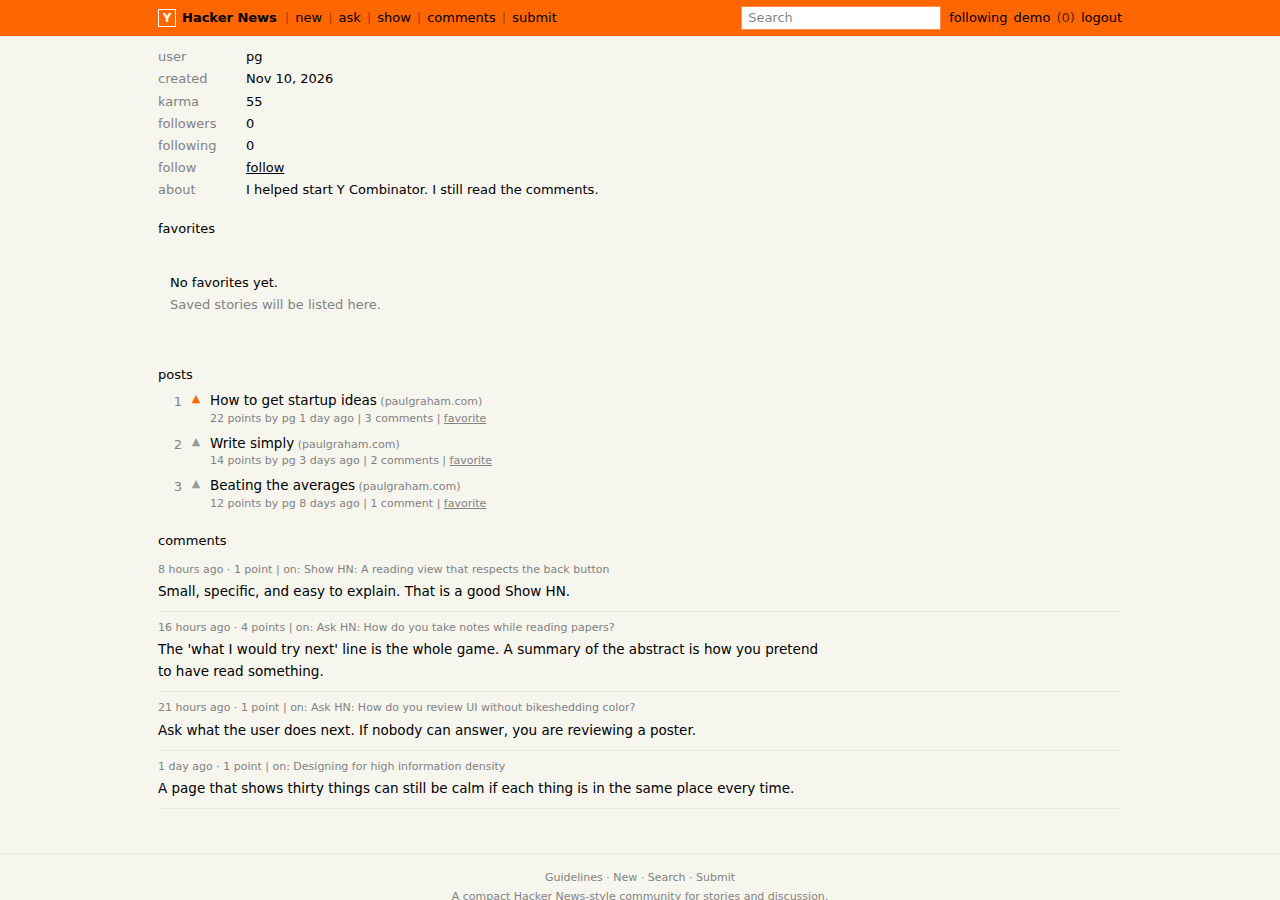
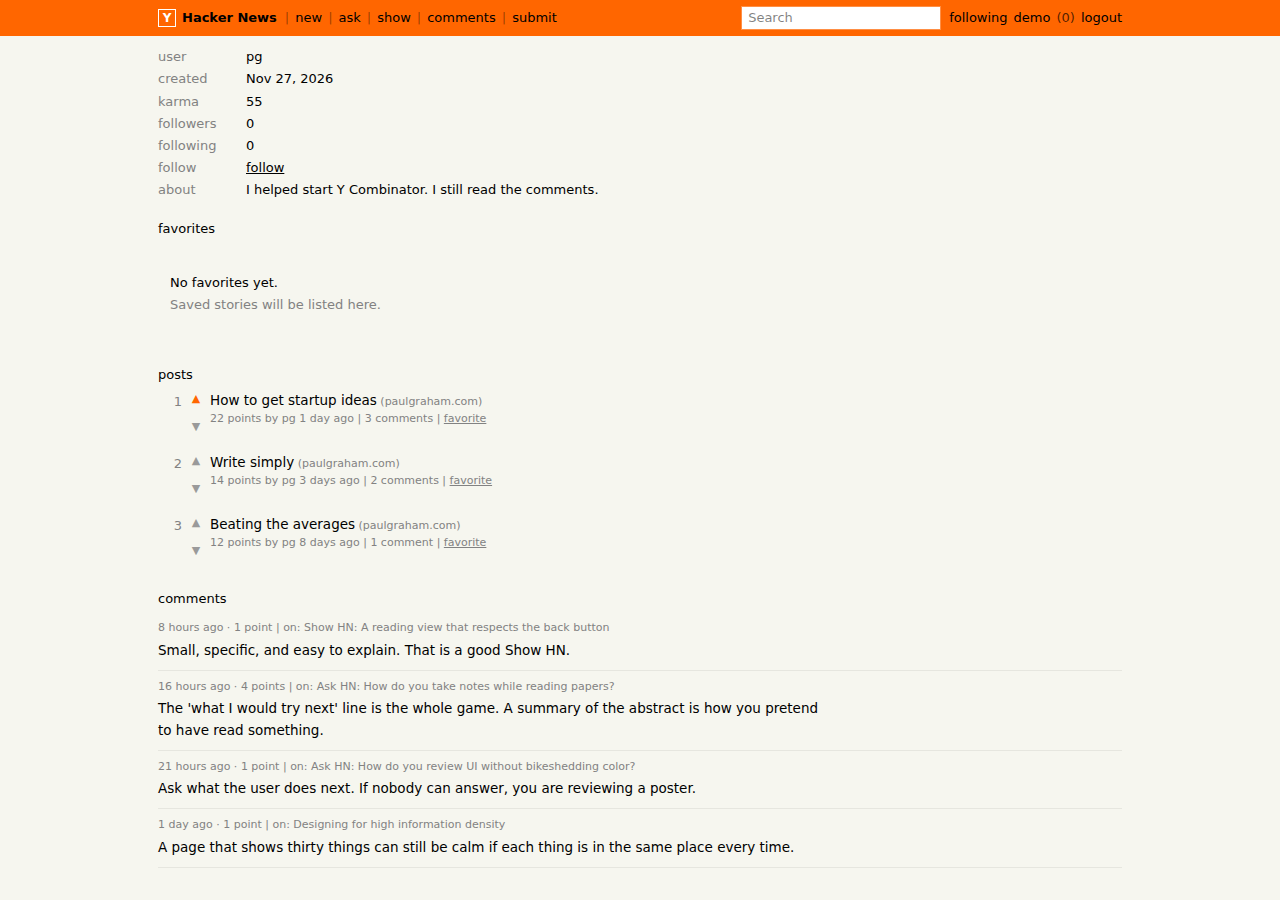
Round 10 Phase 4: stop deep-comment drift and cover account flows. LEFTOVER_HARDENING_V3.md

Changed region(s): [[0.125, 0.4667, 0.6562, 1.0]]

diff --git a/tests/e2e/account-recovery.spec.ts b/tests/e2e/account-recovery.spec.ts
@@ -1,0 +1,102 @@
+import { readFileSync, writeFileSync } from "node:fs";
+import { expect, test } from "@playwright/test";
+
+const mailLog = "/tmp/hn-e2e-mail.log";
+
+function clearMailLog() {
+  writeFileSync(mailLog, "");
+}
+
+async function latestToken(subject: string): Promise<string> {
+  let token = "";
+  await expect
+    .poll(() => {
+      try {
+        const blocks = readFileSync(mailLog, "utf8").split("\n---\n");
+        const block = [...blocks].reverse().find((entry) => entry.includes(subject));
+        const match = block?.match(/token=([^\s]+)/);
+        token = match?.[1] ? decodeURIComponent(match[1]) : "";
+        return token.length;
+      } catch {
+        return 0;
+      }
+    })
+    .toBeGreaterThan(20);
+  return token;
+}
+
+test("shows an invalid password-reset or email-change link", async ({ page }) => {
+  await page.goto("/reset-password");
+  await expect(page.getByText("That reset link is not valid.")).toBeVisible();
+  await page.goto("/reset-password?token=short");
+  await expect(page.getByText("That reset link is not valid.")).toBeVisible();
+  await page.goto("/change-email");
+  await expect(page.getByText("That confirmation link is not valid.")).toBeVisible();
+  await page.goto("/forgot-password");
+  await expect(page.getByRole("button", { name: "send reset link" })).toBeVisible();
+});
+
+test("resets a password from the emailed link and rejects the old one", async ({ page }) => {
+  const username = `p${Date.now().toString(36)}`;
+  const email = `${username}@example.com`;
+  await page.goto("/register");
+  await page.getByLabel("Username").fill(username);
+  await page.getByLabel("Email").fill(email);
+  await page.getByLabel("Password").fill("supersecret");
+  await page.getByRole("button", { name: "create account" }).click();
+  await expect(page.getByTestId("current-user")).toHaveText(username);
+  await page.getByRole("button", { name: "logout" }).click();
+  await expect(page.getByRole("link", { name: "login" })).toBeVisible();
+
+  clearMailLog();
+  await page.goto("/forgot-password");
+  await page.getByLabel("Email").fill(email);
+  await page.getByRole("button", { name: "send reset link" }).click();
+  await expect(page.getByText("If that account exists, a reset link was sent.")).toBeVisible();
+  const token = await latestToken("Reset your password");
+
+  await page.goto(`/reset-password?token=${encodeURIComponent(token)}`);
+  await page.getByLabel("New password").fill("reset-secret-1");
+  await page.getByRole("button", { name: "update password" }).click();
+  await expect(page.getByText("Password updated. Log in with the new one.")).toBeVisible();
+
+  await page.getByLabel("Username").fill(username);
+  await page.getByLabel("Password").fill("reset-secret-1");
+  await page.getByRole("button", { name: "login" }).click();
+  await expect(page.getByTestId("current-user")).toHaveText(username);
+  await page.getByRole("button", { name: "logout" }).click();
+  await expect(page.getByRole("link", { name: "login" })).toBeVisible();
+
+  await page.goto("/login");
+  await page.getByLabel("Username").fill(username);
+  await page.getByLabel("Password").fill("supersecret");
+  await page.getByRole("button", { name: "login" }).click();
+  await expect(page.getByText("Invalid username or password.")).toBeVisible();
+  await expect(page.getByTestId("current-user")).toHaveCount(0);
+});
+
+test("keeps the old email until the change link is confirmed", async ({ page }) => {
+  const username = `e${Date.now().toString(36)}`;
+  const email = `${username}@example.com`;
+  const nextEmail = `${username}-next@example.com`;
+  await page.goto("/register");
+  await page.getByLabel("Username").fill(username);
+  await page.getByLabel("Email").fill(email);
+  await page.getByLabel("Password").fill("supersecret");
+  await page.getByRole("button", { name: "create account" }).click();
+  await expect(page.getByTestId("current-user")).toHaveText(username);
+
+  clearMailLog();
+  await page.goto(`/user/${username}`);
+  await expect(page.getByTestId("account-email")).toHaveText(email);
+  await page.getByLabel("New email").fill(nextEmail);
+  await page.getByRole("button", { name: "send confirmation" }).click();
+  await expect(page.getByText("Check the new inbox for a confirmation link.")).toBeVisible();
+  await expect(page.getByTestId("account-email")).toHaveText(email);
+
+  const token = await latestToken("Confirm your new email");
+  await page.goto(`/change-email?token=${encodeURIComponent(token)}`);
+  await page.getByRole("button", { name: "confirm new email" }).click();
+  await expect(page.getByTestId("account-email")).toHaveText(nextEmail);
+  await expect(page.getByTestId("current-user")).toHaveText(username);
+});

diff --git a/components/comment-thread.tsx b/components/comment-thread.tsx
@@ -4,7 +4,7 @@ import { useEffect, useState } from "react";
 import { setCommentCollapsed } from "@/lib/actions/comment-collapse";
 import { deleteComment } from "@/lib/actions/comments";
 import { COLLAPSED_COMMENTS_KEY, parseCollapsedIds, toggleCollapsedId } from "@/lib/domain/collapsed-comments";
-import { canReplyAtDepth, commentDepthMark, commentIndentStepPx } from "@/lib/domain/comments";
+import { canReplyAtDepth, commentDepthMark, commentIndentStepPx, commentThreadGutter } from "@/lib/domain/comments";
 import { plural } from "@/lib/domain/format";
 import { formatRelative } from "@/lib/domain/time";
 import type { CommentDTO } from "@/lib/types";
@@ -43,6 +43,7 @@ function CommentItem({
   const owns = viewerId === node.author.id;
   const descendants = descendantCount(node);
   const indent = commentIndentStepPx(depth);
+  const gutter = commentThreadGutter(depth);
   const depthMark = commentDepthMark(depth);
   const canReply = canReplyAtDepth(depth + 1);
 
@@ -72,7 +73,10 @@ function CommentItem({
       className="pt-2"
       style={{ marginLeft: indent }}
     >
-      <div className={depth > 0 ? "border-l border-[#e4e4dc] pl-2" : undefined}>
+      <div
+        data-comment-gutter={gutter ? "true" : "false"}
+        className={gutter ? "border-l border-[#e4e4dc] pl-2" : undefined}
+      >
         <div className="flex flex-wrap items-center gap-x-1 text-[11px] text-hn-sub">
           <button
             type="button"

diff --git a/tests/unit/mail-log.test.ts b/tests/unit/mail-log.test.ts
@@ -1,0 +1,22 @@
+import { mkdtempSync, readFileSync, rmSync } from "node:fs";
+import { tmpdir } from "node:os";
+import { join } from "node:path";
+import { describe, expect, it } from "vitest";
+import { clearRecordedMail, createMailer, recordedMail } from "@/lib/mailer";
+
+describe("console mail log", () => {
+  it("appends a message only when MAIL_LOG_PATH is set", async () => {
+    clearRecordedMail();
+    const dir = mkdtempSync(join(tmpdir(), "hn-mail-"));
+    const file = join(dir, "mail.log");
+    const logged = createMailer({ MAILER: "console", NODE_ENV: "test", MAIL_LOG_PATH: file });
+    await logged.send({ to: "a@example.com", subject: "Reset your password", text: "token=abc" });
+    expect(readFileSync(file, "utf8")).toContain("token=abc");
+    expect(readFileSync(file, "utf8")).toContain("Reset your password");
+
+    const quiet = createMailer({ MAILER: "console", NODE_ENV: "test" });
+    await quiet.send({ to: "b@example.com", subject: "Hi", text: "no file" });
+    expect(recordedMail().map((mail) => mail.to)).toEqual(["a@example.com", "b@example.com"]);
+    rmSync(dir, { recursive: true, force: true });
+  });
+});

diff --git a/tests/unit/comment-depth.test.ts b/tests/unit/comment-depth.test.ts
@@ -8,6 +8,7 @@ import {
   commentDepthMark,
   commentIndentPx,
   commentIndentStepPx,
+  commentThreadGutter,
   maxThreadDepth,
   replyDepthError,
 } from "@/lib/domain/comments";
@@ -62,6 +63,18 @@ describe("comment depth cap", () => {
     expect(commentIndentStepPx(16)).toBe(0);
     const total = Array.from({ length: 17 }, (_, depth) => commentIndentStepPx(depth)).reduce((sum, step) => sum + step, 0);
     expect(total).toBe(120);
+  });
+
+  it("drops the nested border once the indent stops growing", () => {
+    expect(commentThreadGutter(0)).toBe(false);
+    expect(commentThreadGutter(1)).toBe(true);
+    expect(commentThreadGutter(10)).toBe(true);
+    for (const depth of [11, 12, 13, 14, 15, 16]) {
+      expect(commentThreadGutter(depth)).toBe(false);
+      expect(commentIndentStepPx(depth)).toBe(0);
+      expect(commentDepthMark(depth)).toBe(String(depth));
+    }
+    expect(commentIndentPx(16)).toBe(120);
   });
 });
 

diff --git a/lib/mailer.ts b/lib/mailer.ts
@@ -1,3 +1,4 @@
+import { appendFileSync } from "node:fs";
 import nodemailer from "nodemailer";
 
 export type OutboundMail = {
@@ -42,6 +43,8 @@ export type MailerEnv = {
   SMTP_USER?: string;
   SMTP_PASS?: string;
   SMTP_FROM?: string;
+  /** When set, console mail is also appended here. Unset by default. */
+  MAIL_LOG_PATH?: string;
 };
 
 const recorded: OutboundMail[] = [];
@@ -100,6 +103,10 @@ function consoleMailer(env: MailerEnv): Mailer {
   return {
     async send(mail) {
       recorded.push(mail);
+      const logPath = env.MAIL_LOG_PATH?.trim();
+      if (logPath) {
+        appendFileSync(logPath, `${mail.to}\n${mail.subject}\n${mail.text}\n---\n`);
+      }
       if (env.NODE_ENV !== "test") {
         console.info(`[mail] to=${mail.to} subject=${mail.subject}\n${mail.text}`);
       }

diff --git a/tests/e2e/comment-depth.spec.ts b/tests/e2e/comment-depth.spec.ts
@@ -41,8 +41,10 @@ test("marks comment depths 11 and up without indenting past 120px", async ({ pag
   const marked = page.getByTestId("comment").filter({ hasText: text }).last();
   await expect(marked.locator("> div > div").first().getByTestId("comment-depth-mark")).toHaveText("11");
   await expect(marked).toHaveCSS("margin-left", "0px");
+  await expect(marked.locator("> div").first()).toHaveAttribute("data-comment-gutter", "false");
 
   const capped = page.getByTestId("comment").filter({ hasText: lines[10]! }).last();
   await expect(capped.locator("> div > div").first().getByTestId("comment-depth-mark")).toHaveCount(0);
   await expect(capped).toHaveCSS("margin-left", "12px");
+  await expect(capped.locator("> div").first()).toHaveAttribute("data-comment-gutter", "true");
 });

diff --git a/lib/domain/comments.ts b/lib/domain/comments.ts
@@ -27,6 +27,15 @@ export function commentIndentStepPx(depth: number): number {
 }
 
 /**
+ * Nested rows draw a left border and padding only while the indent is still
+ * growing. Depths 11–16 already sit at the 120px cap, so another border would
+ * keep shifting them right.
+ */
+export function commentThreadGutter(depth: number): boolean {
+  return commentIndentStepPx(depth) > 0;
+}
+
+/**
  * Depths 11–16 share the 120px indent. A numeric mark tells them apart
  * without pushing the thread any wider.
  */

diff --git a/playwright.config.ts b/playwright.config.ts
@@ -28,6 +28,7 @@ export default defineConfig({
       ...process.env,
       DATABASE_URL: databaseUrl,
       AUTH_SECRET: authSecret,
+      MAIL_LOG_PATH: "/tmp/hn-e2e-mail.log",
     },
   },
 });

diff --git a/LEFTOVER_HARDENING_V3.md b/LEFTOVER_HARDENING_V3.md
@@ -1,0 +1,58 @@
+# 第十轮阶段 4：深层评论边距、截图和账号流程
+
+## 做了什么
+
+第 11 到 16 层的缩进步长已经是 0，但每一层嵌套仍带着左边框和 `pl-2`，大约再往右 9 像素。`commentThreadGutter` 只在缩进还在变宽时保留这条边。到顶之后边框和内边距都去掉，橙色层数标记和 16 层上限保留。120 像素的缩进上限没有改。
+
+`scripts/capture-screenshots.mjs` 补了反对票、邮箱验证、忘记密码、重置密码、更换邮箱和第 11 层评论的图。README 指向 `docs/screenshots/` 里更新后的文件。
+
+端到端覆盖了无效的重置和换邮箱链接、一封邮件里的重置链接（新密码能登录，旧密码不能）、以及确认前旧邮箱保持不变。控制台邮件器只在设置了 `MAIL_LOG_PATH` 时把信追加到文件。默认不设置，`MAILER` 仍是 `console`。端到端进程才设置这个路径，用来读出测试信里的令牌。
+
+## 如何验证
+
+```bash
+npx vitest run tests/unit/comment-depth.test.ts tests/unit/mail-log.test.ts tests/unit/ranking.test.ts
+npx eslint lib/domain/comments.ts lib/mailer.ts components/comment-thread.tsx tests/unit/comment-depth.test.ts tests/unit/mail-log.test.ts tests/e2e/account-recovery.spec.ts tests/e2e/comment-depth.spec.ts
+npx playwright test
+DATABASE_URL="file:/tmp/hn-screenshots.db" npx prisma migrate deploy
+DATABASE_URL="file:/tmp/hn-screenshots.db" npx tsx prisma/seed.ts
+DATABASE_URL="file:/tmp/hn-screenshots.db" AUTH_SECRET="screenshot-secret-key-not-for-production" npx next start --hostname 127.0.0.1 --port 3000
+node scripts/capture-screenshots.mjs
+```
+
+## 结果证据
+
+2026-11-27 13:18 UTC：
+
+```text
+npx vitest run tests/unit/comment-depth.test.ts tests/unit/mail-log.test.ts tests/unit/ranking.test.ts
+Test Files  3 passed (3)
+Tests       12 passed (12)
+Start at    13:18:24
+Duration    1.09s
+
+npx eslint …通过
+```
+
+评论深度现在是 5 个测试，其中新增「缩进停住后去掉嵌套边框」。第 1 层和第 10 层仍有边，第 11 到 16 层没有，标记仍是 11 到 16，第 16 层缩进仍是 120。排名测试 6 个仍通过。邮件日志测试确认只有设置了 `MAIL_LOG_PATH` 才写文件。
+
+第一次端到端在重置后的退出还没完成时就打开登录页，会话还在，页面被重定向走，等用户名输入框超时。测试改成先等到页头出现 login 再打开登录页，没有改断言。
+
+2026-11-27 13:20 UTC 重跑：
+
+```text
+npx playwright test
+Running 29 tests using 1 worker
+29 passed (40.6s)
+```
+
+原有 26 个都在这 29 个里面，包括评论深度、反对票、投票和验证。新增 3 个：无效链接、密码重置、邮箱更换。评论深度那条原测试额外确认第 11 层 `data-comment-gutter` 是 false，第 10 层是 true，原有的 0px 和 12px 断言还在。
+
+截图脚本写出 `downvote.png`、`verify.png`、`forgot-password.png`、`reset-password.png`、`email-change.png`、`comment-depth.png`，并刷新了原来的首页、登录、发帖、搜索、主页和窄屏图。反对票图上分数是 -1，橙色向下箭头亮着。深层评论图上有橙色的 11，再往下没有继续往右挪。
+
+## 发现的问题
+
+- 第 1 到 10 层仍有左边框和内边距。那是线程线，不是到顶之后的多余位移。
+- `MAIL_LOG_PATH` 会把整封信写进文件，里面有令牌。默认关闭。生产不要设置它。`next start` 在测试环境之外仍会把控制台邮件打到标准输出。
+- 深层评论的截图滚到第 11 层，画面里看不到根评论。
+- 截图用的是 `/tmp/hn-screenshots.db`，不进仓库。

diff --git a/README.md b/README.md
@@ -35,7 +35,7 @@ node -e "console.log(require('crypto').randomBytes(32).toString('base64url'))"
 
 ### 评论
 
-- 多层回复最多 16 层，可以折叠。第 16 层不再显示回复入口。缩进每层 12 像素，到 120 像素后不再变宽。第 11 到 16 层缩进都停在 120 像素，作者名前面用橙色数字标出层数，把这几层彼此分开。已登录用户的折叠写入数据库，换浏览器后仍在。未登录用户写在这个浏览器的 `localStorage`（键 `hn-collapsed-comments`），关掉标签页后再打开仍在，见 [COMMENT_COLLAPSE.md](COMMENT_COLLAPSE.md)。
+- 多层回复最多 16 层，可以折叠。第 16 层不再显示回复入口。缩进每层 12 像素，到 120 像素后不再变宽。第 11 到 16 层缩进都停在 120 像素，作者名前面用橙色数字标出层数。这几层不再叠加左边框和内边距，避免缩进到顶之后还往右挪。已登录用户的折叠写入数据库，换浏览器后仍在。未登录用户写在这个浏览器的 `localStorage`（键 `hn-collapsed-comments`），关掉标签页后再打开仍在，见 [COMMENT_COLLAPSE.md](COMMENT_COLLAPSE.md)。
 - 排序规则：先按票数降序，票数相同再按时间升序（更早的在前）。票数和时间都相同则按 id 字典序。没有票的线程因此仍是从旧到新。
 - 登录用户可以给别人的评论 upvote 或 downvote，再点一次取消。不能给自己的评论投票，也不能给已软删除的评论投票。
 - Karma 是别人投给你的帖子票和评论票之和，downvote 记为负。自己投自己的不计。帖子侧和评论侧各自低于 0 时按 0 算。取消评论票会把对应 karma 减回去。软删除不撤销已经投出的票，karma 保持原样。
@@ -229,6 +229,20 @@ npx tsx scripts/scale-bench.ts
 ![窄屏首页](docs/screenshots/home-mobile.png)
 
 评论投票、软删除、收藏、粉丝数和关注页的图放在上面对应功能旁边，文件分别是 `comment-vote.png`、`comment-deleted.png`、`profile-favorites.png`、`profile-following-count.png`、`following-page.png`。
+
+反对票、邮箱验证、密码重置和深层评论：
+
+![反对票](docs/screenshots/downvote.png)
+
+![邮箱验证](docs/screenshots/verify.png)
+
+![忘记密码](docs/screenshots/forgot-password.png)
+
+![重置密码](docs/screenshots/reset-password.png)
+
+![更换邮箱](docs/screenshots/email-change.png)
+
+![第 11 层评论](docs/screenshots/comment-depth.png)
 
 ## 目录
 
